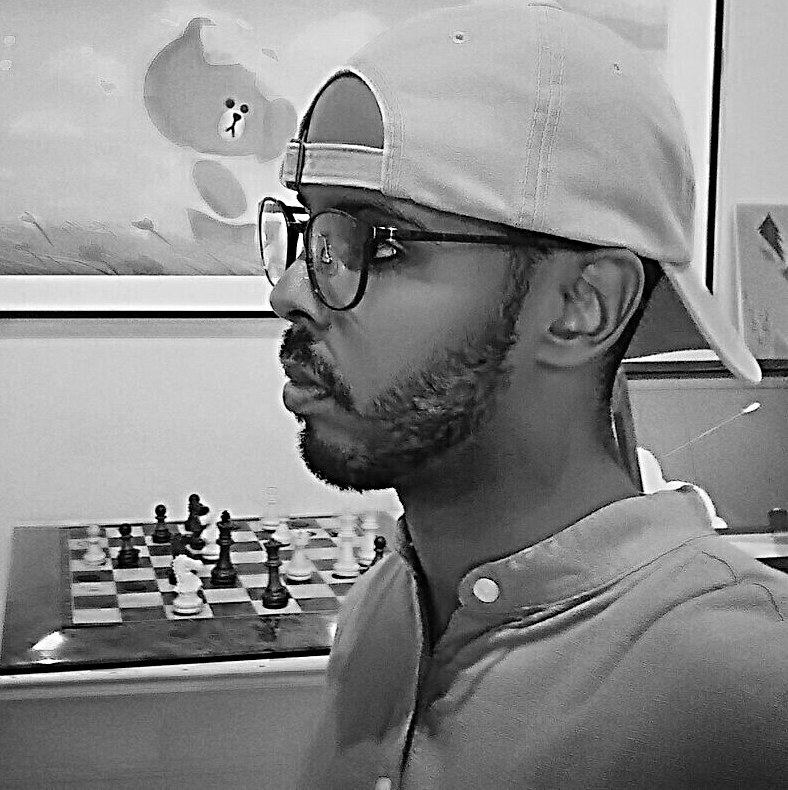
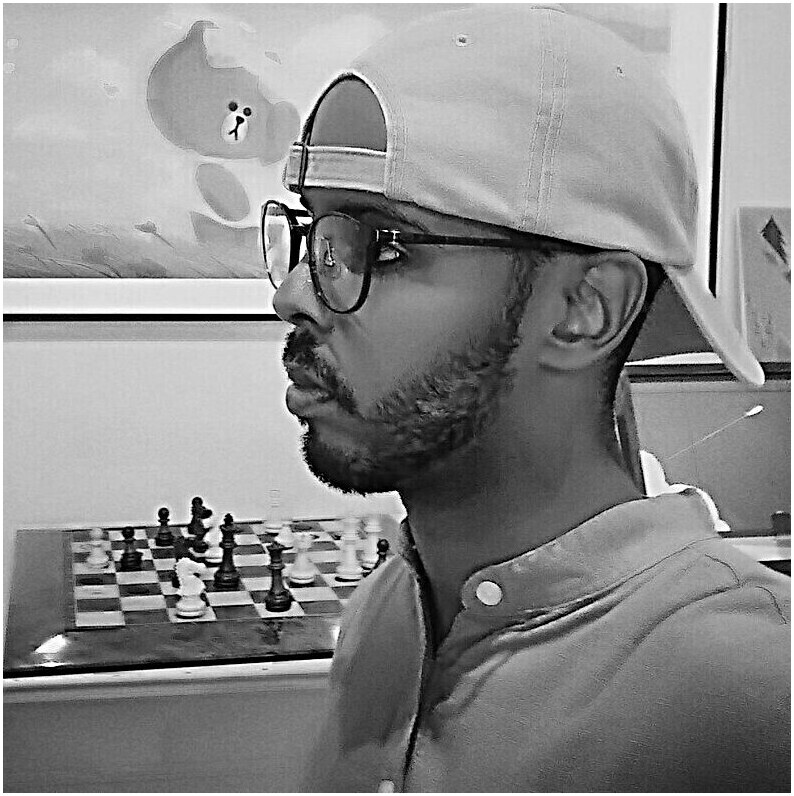
In assets, delete chess,  edit cropchess with lunapic to add white border.

diff --git a/styles/Styles.js b/styles/Styles.js
@@ -82,8 +82,8 @@ export const LpAnimBox = styled.div`
 export const LpPic = styled.div`
   margin-left: 2rem;
   // background-color: red;
-  border: 2px solid white;
-  height: 403px;
+  // border: 2px solid white;
+  // height: 403px;
 `;
 
 // Menu
